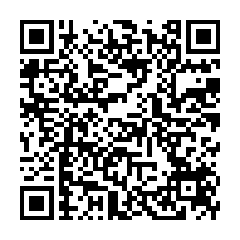
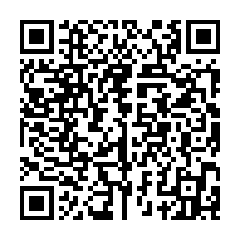
updated xrm and btc wallet

diff --git a/donate.md b/donate.md
@@ -22,7 +22,7 @@ comments: false
 ## Monero
 {:refdef: style="text-align: center;"}
 ```
[2 lines of base64/hex data omitted]
 ```
 {: refdef}  
 {:refdef: style="text-align: center;"}
@@ -31,7 +31,7 @@ comments: false
 ## Bitcoin
 {:refdef: style="text-align: center;"}
 ```
-32cta3D1Zy3Umj7ubCrRbawK5nYmmCHQBh
+bc1qeczdgdpwsd90sysy0cqj3vglztv9mgwjl9k8k3
 ```
 <br>
 ![btc qr code](/assets/img/btc-qr.png)  
